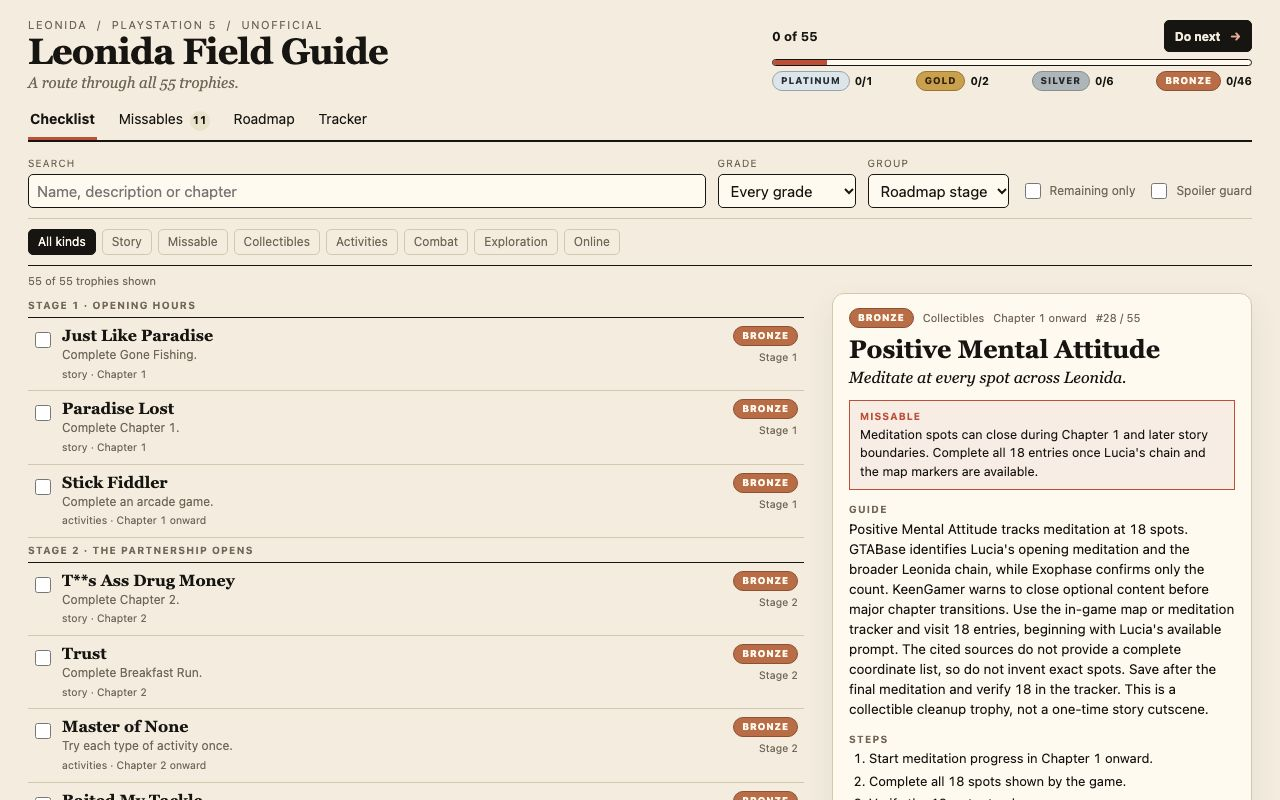
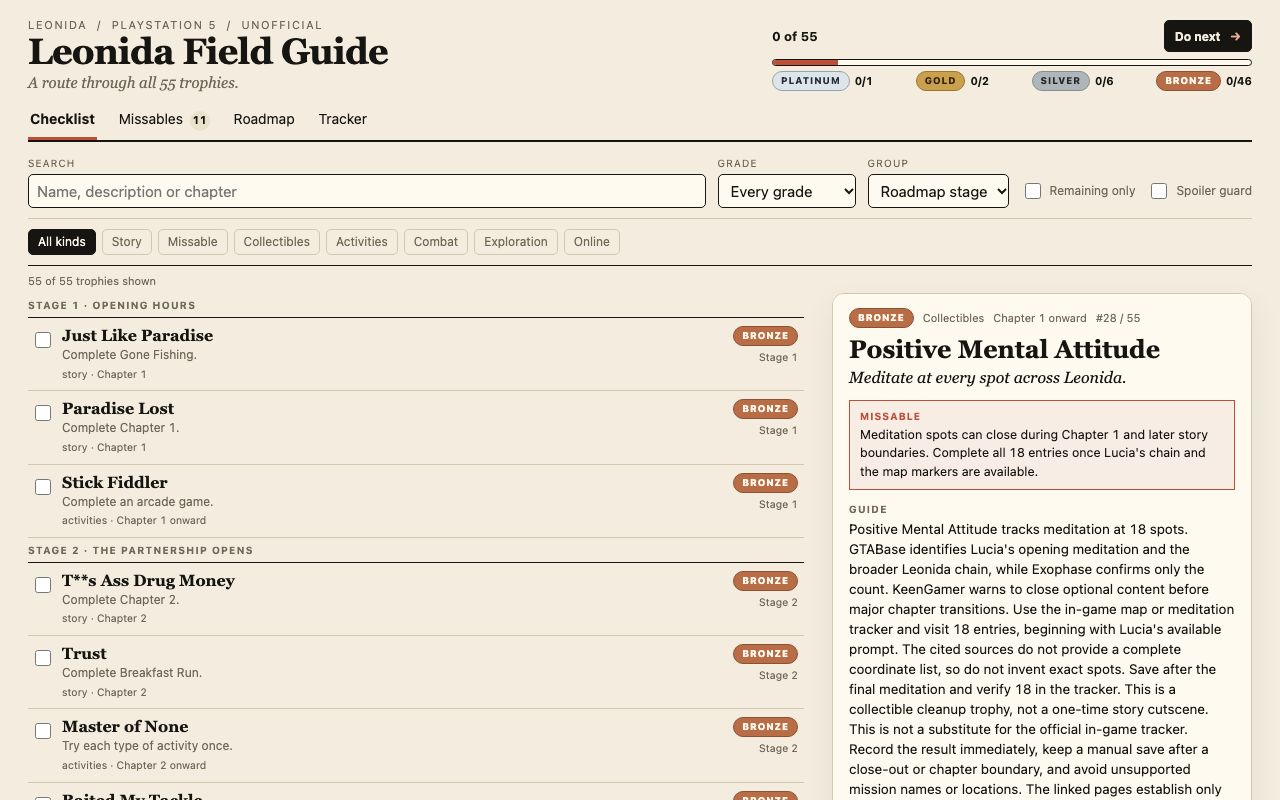
Expand every trophy guide to 120 words

Changed region(s): [[0.6562, 0.9062, 0.9688, 1.0]]

diff --git a/main.ts b/main.ts
@@ -60,7 +60,7 @@ function validate(list: Trophy[]): string[] {
       problems.push(`${who}: blank guide`);
     } else {
       const words = t.guide.trim().split(/\s+/).length;
-      if (words < 50 || words > 180) problems.push(`${who}: guide has ${words} words; expected 50 to 180`);
+      if (words < 120 || words > 180) problems.push(`${who}: guide has ${words} words; expected 120 to 180`);
     }
     const steps = Array.isArray(t.steps) ? t.steps : [];
     if (steps.length < 2 || steps.length > 4 || steps.some((step) => typeof step !== 'string' || !step.trim())) {
